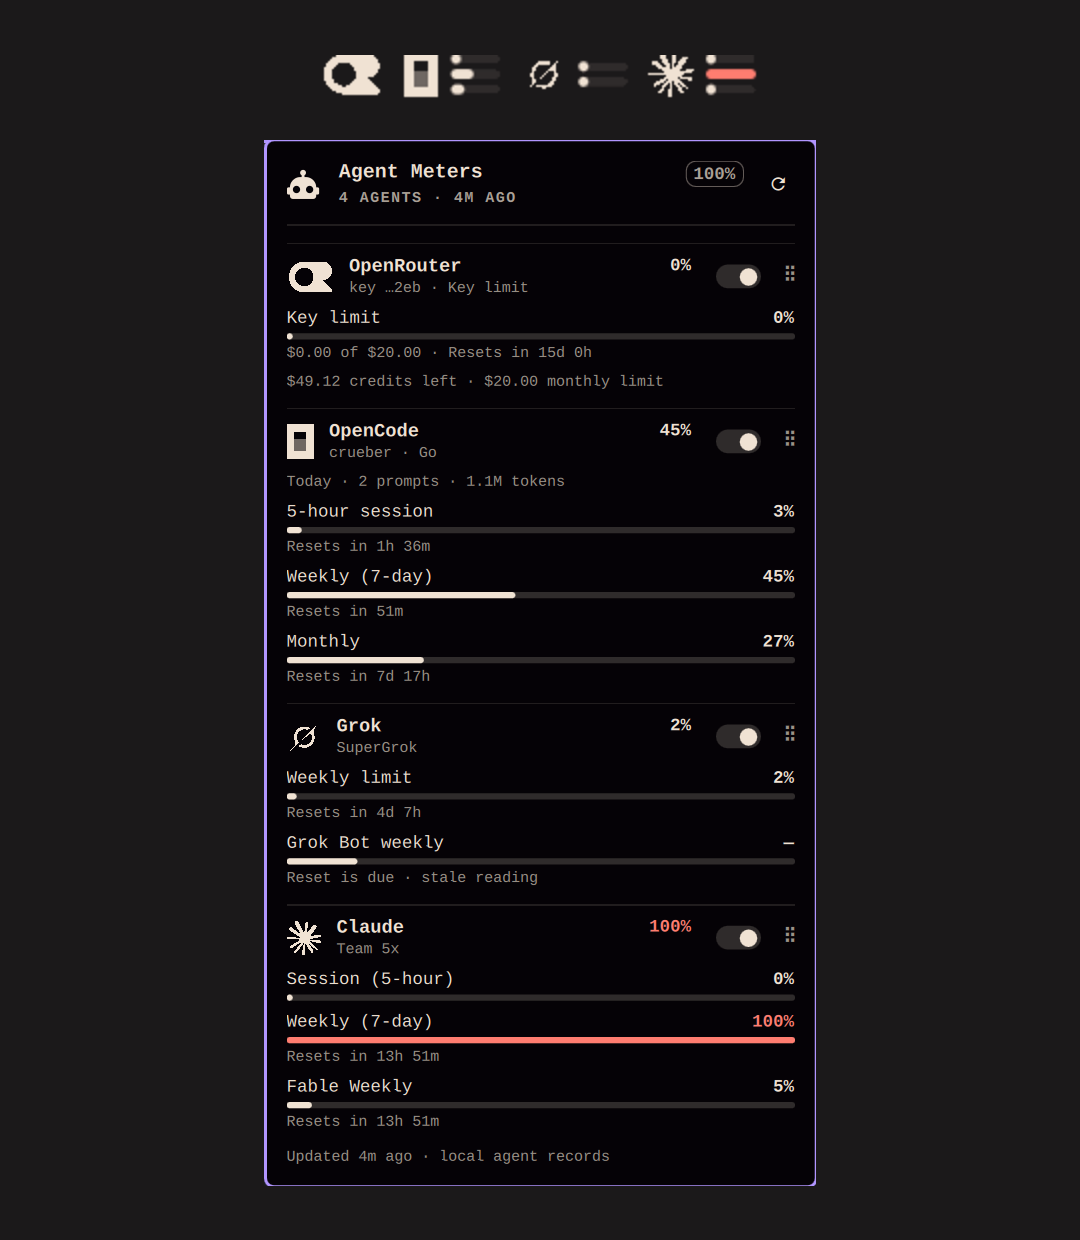
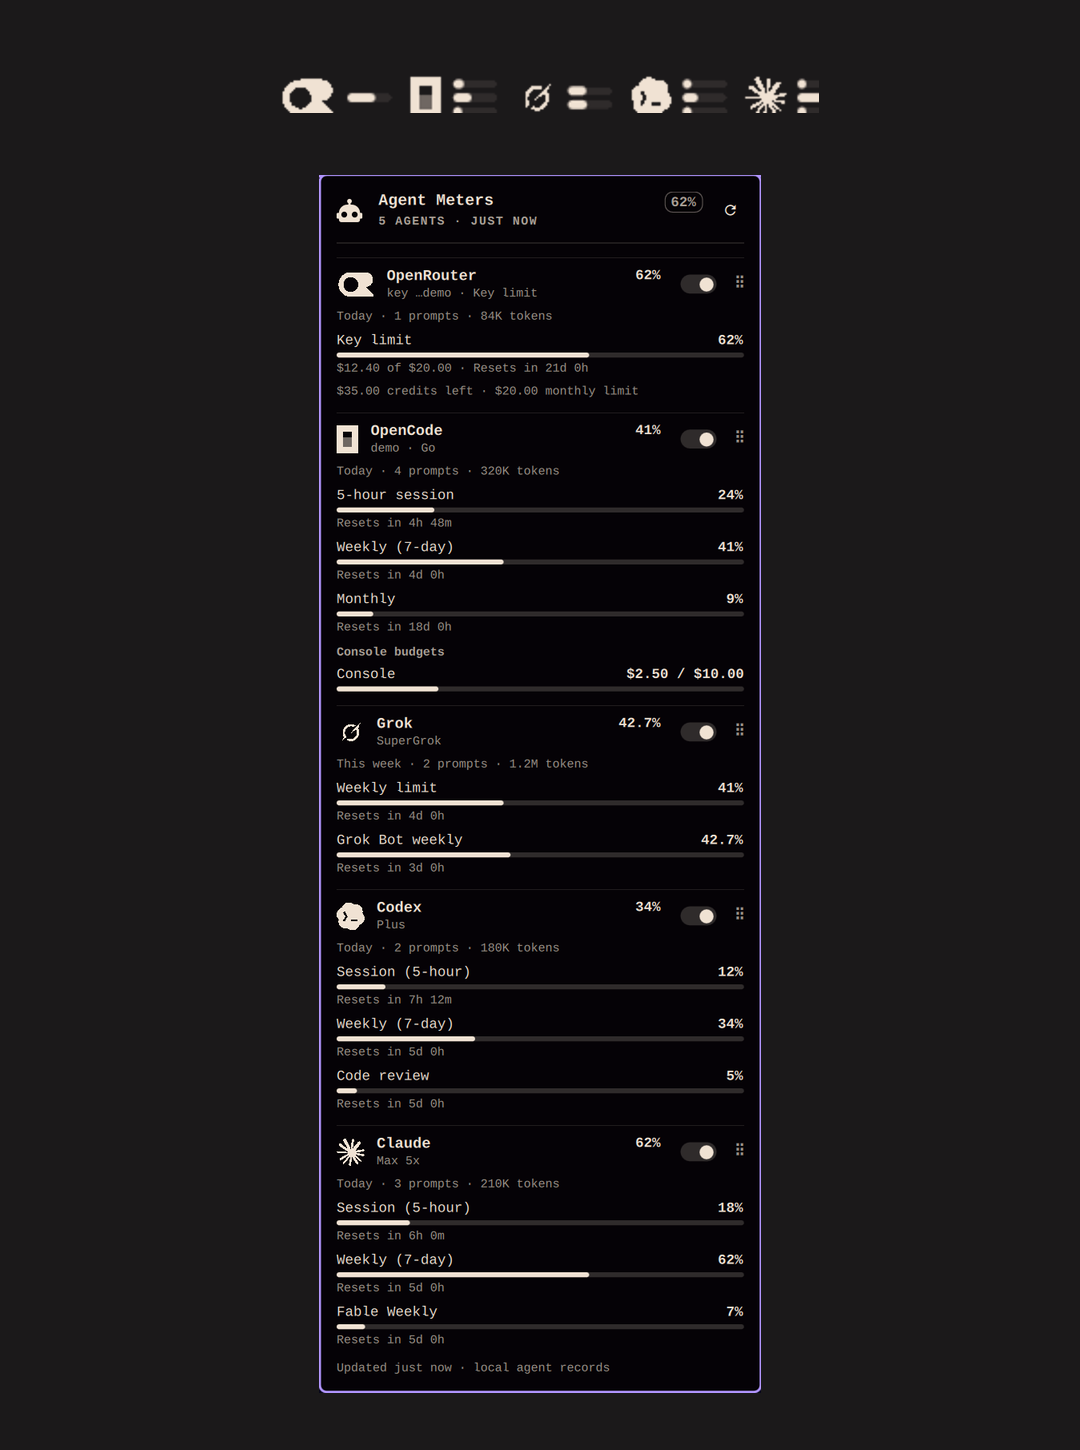
docs: sanitize previews and preempt marketplace review findings
The three predecessor submissions were flagged for insecure demo-capture
scripts (predictable temp copies of live caches/settings) and a README curl
example that put the API key in argv. This plugin ships neither: there is no
demo script, and no secret or key belongs in a documented command.

Previews are now composed from a synthetic fixture, so no real key, account,
workspace, spend, credits or usage is published. README gains capability
notes for the installer and runtime scope, and the clone instructions are
gone, leaving `omarchy plugin add` as the documented install and avoiding the
remote-build capability. SECURITY.md records the preview policy.

Also fixes a fresh-install race: with no cache, the first read could wait for
the five-minute poll if the FileView finished before leadership settled. Both
completion and the election timer now ask once, and the panel cap fits five
agents on a large screen.

Changed region(s): [[0.2444, 0.0306, 0.7639, 0.9806]]

diff --git a/Panel.qml b/Panel.qml
@@ -427,6 +427,14 @@ Panel {
   Component.onCompleted: {
     Model.pollClaim(root, Date.now())
     root.pollLeader = Model.pollLeaderInstance() === root
+    // A missing cache leaves the first fetch to the FileView, which may run
+    // before leadership is settled. Ask once afterwards so a fresh install
+    // paints in seconds instead of waiting for the next five-minute poll.
+    if (root.pollLeader) {
+      Qt.callLater(function() {
+        if (root.providers.length === 0 && !fetchProc.running) root.requestFetch("auto")
+      })
+    }
   }
 
   FileView {
@@ -508,7 +516,13 @@ Panel {
     interval: 5000
     running: true
     repeat: true
-    onTriggered: root.pollLeader = Model.pollClaim(root, Date.now())
+    onTriggered: {
+      var wasLeader = root.pollLeader
+      root.pollLeader = Model.pollClaim(root, Date.now())
+      if (!wasLeader && root.pollLeader && root.providers.length === 0 && !fetchProc.running) {
+        root.requestFetch("auto")
+      }
+    }
   }
 
   Timer {
@@ -726,7 +740,7 @@ Panel {
     open: root.opened
     focusTarget: keyCatcher
     contentWidth: panel.fittedContentWidth(Style.space(380))
-    contentHeight: panel.fittedContentHeight(panelColumn.implicitHeight, Style.space(900))
+    contentHeight: panel.fittedContentHeight(panelColumn.implicitHeight, Style.space(1200))
 
     PanelKeyCatcher {
       id: keyCatcher

diff --git a/README.md b/README.md
@@ -7,6 +7,9 @@ stays out of the bar. That is also the default bar order.
 
 ![Agent Meters in the Omarchy bar and its panel](preview.png)
 
+All images in this repository are composed from invented data: no real key,
+account, workspace, spend, credits or usage figure is shown.
+
 Agent Meters is the unified successor to three separate widgets — [OpenRouter
 Usage](#predecessors), [OpenCode Go Usage](#predecessors) and [Grok
 Usage](#predecessors) — with Codex and Claude added. The individual plugins
@@ -239,12 +242,10 @@ omarchy plugin add https://github.com/crueber/omarchy-plugin-agent-meters --enab
 The command validates the manifest before installing and enables the widget in
 the right bar section.
 
-Or clone the repo and run the installer, which also places the widget in the
-right section:
+From a local checkout, the installer does the same deployment:
 
 ```bash
-git clone https://github.com/crueber/omarchy-plugin-agent-meters.git
-cd omarchy-plugin-agent-meters
+cd /path/to/omarchy-plugin-agent-meters
 ./scripts/install.sh
 ```
 
@@ -467,6 +468,28 @@ scripts/install.sh     deploy to the live plugin directory
 scripts/validate.sh    manifest + files + tests + omarchy plugin validate
 ```
 
+## Marketplace capability notes
+
+This repository ships one installer and no screenshot or demo-capture script.
+
+- **Installer (`installer` capability).** `scripts/install.sh` copies the
+  reviewed runtime files into
+  `~/.config/omarchy/plugins/crueber.agent-meters/`, validates the manifest,
+  rescans the shell and enables the widget. It uses no sudo, no network and no
+  build step, and writes nowhere else.
+- **No remote build.** The documented install is `omarchy plugin add`; the
+  plugin does not fetch or execute code from the network.
+- **Local executables.** Runtime reads use only `node`, `opencode`,
+  `omarchy-agent-usage-claude` and `omarchy-agent-usage-codex` (each
+  configurable), plus the local files described above.
+- **Network.** Only OpenRouter's `/api/v1/key` and `/api/v1/credits`, with the
+  key in an HTTPS header. Claude's and Codex's probes belong to Omarchy's
+  collectors.
+- **Previews.** `preview.png` and `screenshots/bar.png` are composed offline
+  from a synthetic fixture. No real key, account, workspace, spend, credits or
+  usage appears. There is no demo or capture script to run, and therefore no
+  temporary copies of live caches or settings.
+
 ## Marketplace facts
 
 - **Plugin id:** `crueber.agent-meters`
@@ -480,7 +503,7 @@ scripts/validate.sh    manifest + files + tests + omarchy plugin validate
 - **IPC target:** `agent-meters`
 - **Licence:** MIT
 - **Source:** https://github.com/crueber/omarchy-plugin-agent-meters
-- **Preview:** `preview.png` (panel) and `screenshots/bar.png`
+- **Preview:** `preview.png` (bar and panel) and `screenshots/bar.png`
 - **Validation:** `./scripts/validate.sh` and `omarchy plugin validate`
 - **Install / remove:** standard `omarchy plugin add` / `omarchy plugin remove`
 

diff --git a/AGENTS.md b/AGENTS.md
@@ -58,7 +58,10 @@ the scoped windows. An API-key sign-in has no plan limits and stays hidden.
    The panel lists `panelProviders` (so a hidden agent can be switched back on)
    and the bar lists `visibleProviders`. The switch calls
    `omarchy bar set crueber.agent-meters show<Agent> true|false --json`.
-8. Bar order is the widget's `providerOrder` setting (comma-separated ids).
+8. A missing cache must fetch once leadership settles; do not leave the first
+   read to the five-minute poll. `Component.onCompleted` and the five-second
+   election timer both ask for the read when no provider is loaded.
+9. Bar order is the widget's `providerOrder` setting (comma-separated ids).
    The panel's drag handle reports a drop index in section coordinates;
    `Model.reorderInsert` returns the full order (keeping hidden agents in
    place) and the panel persists it through

diff --git a/CHANGELOG.md b/CHANGELOG.md
@@ -14,7 +14,14 @@
   displayed.
 - The panel can grow to fit four agents without scrolling on a normal screen.
 - Preview is one unified image: the bar meters above the panel, in the style
-  of the three predecessor plugins.
+  of the three predecessor plugins, and it uses invented data only.
+- No demo or capture script ships, so there is no temporary copy of live
+  caches or settings; marketplace capability notes document the installer and
+  runtime scope.
+- A fresh install with no cache now fetches as soon as leadership settles
+  instead of waiting for the next five-minute poll.
+- The panel height cap accommodates five agents on a large screen and still
+  clamps to smaller ones.
 
 ## 1.1.0 — 2026-11-15
 

diff --git a/SECURITY.md b/SECURITY.md
@@ -57,6 +57,13 @@ HTTP responses are size- and time-limited. Plugin settings are read through
 Omarchy's widget API and never interpolated into a shell command without
 quoting.
 
+## Preview images
+
+`preview.png` and `screenshots/bar.png` are composed offline from invented
+data. No real key, account, workspace, spend, credit or usage figure appears in
+them. The repository ships no demo or screenshot-capture script, so there is no
+code path that copies live caches or settings into a temporary directory.
+
 ## Supported versions
 
 Fixes land on `main` and in the latest release. The marketplace version is the
